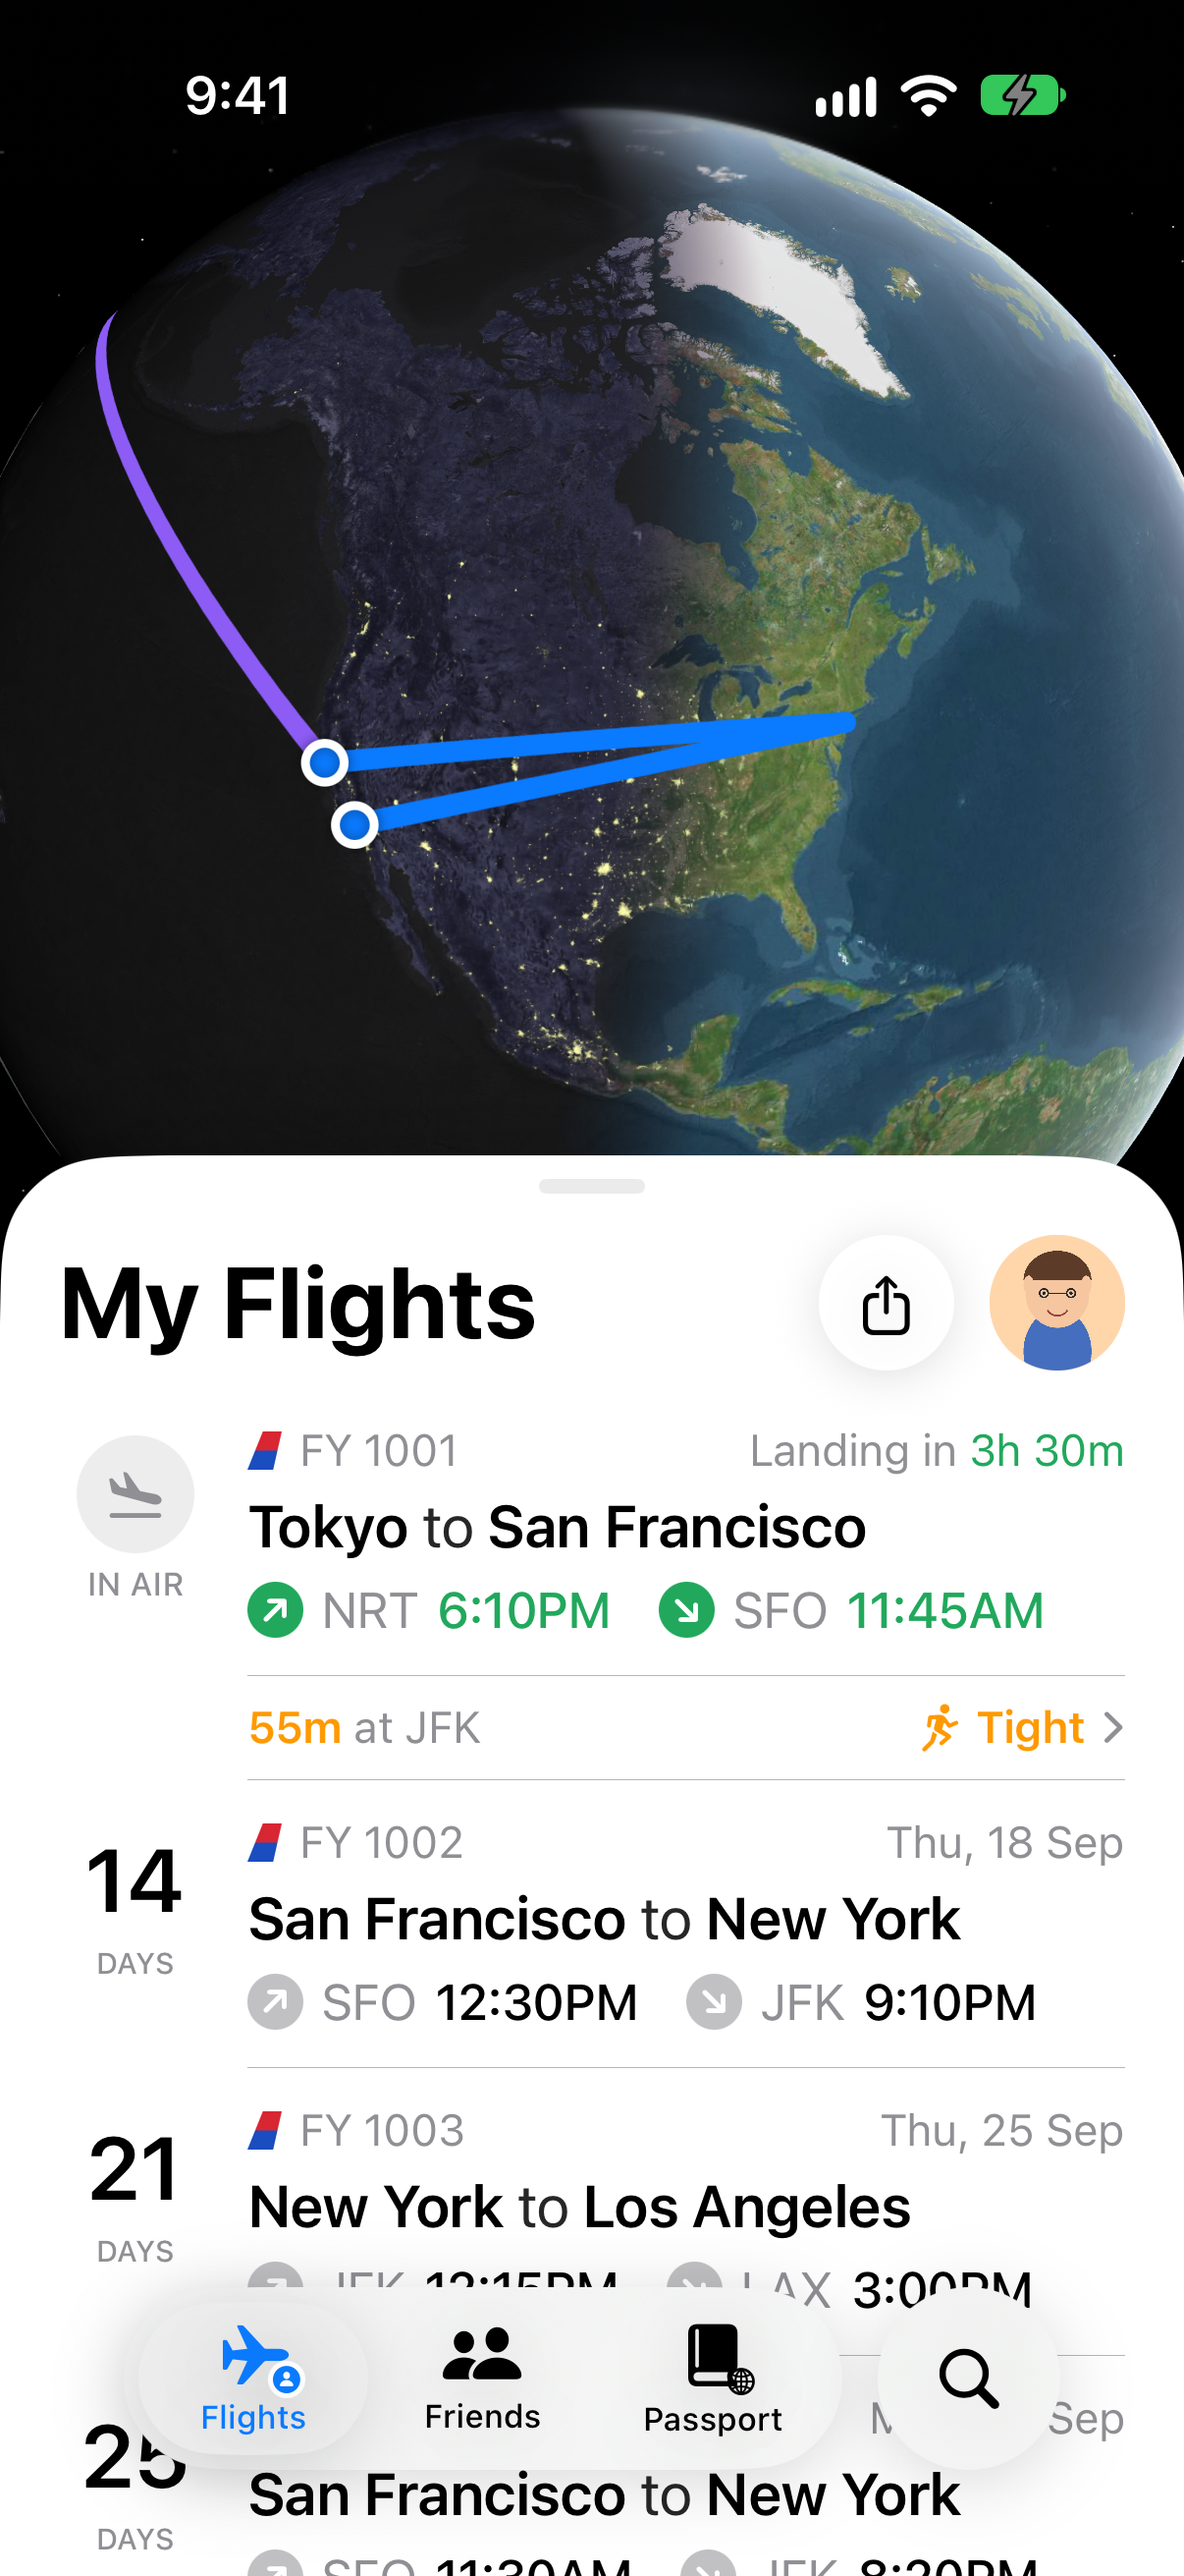
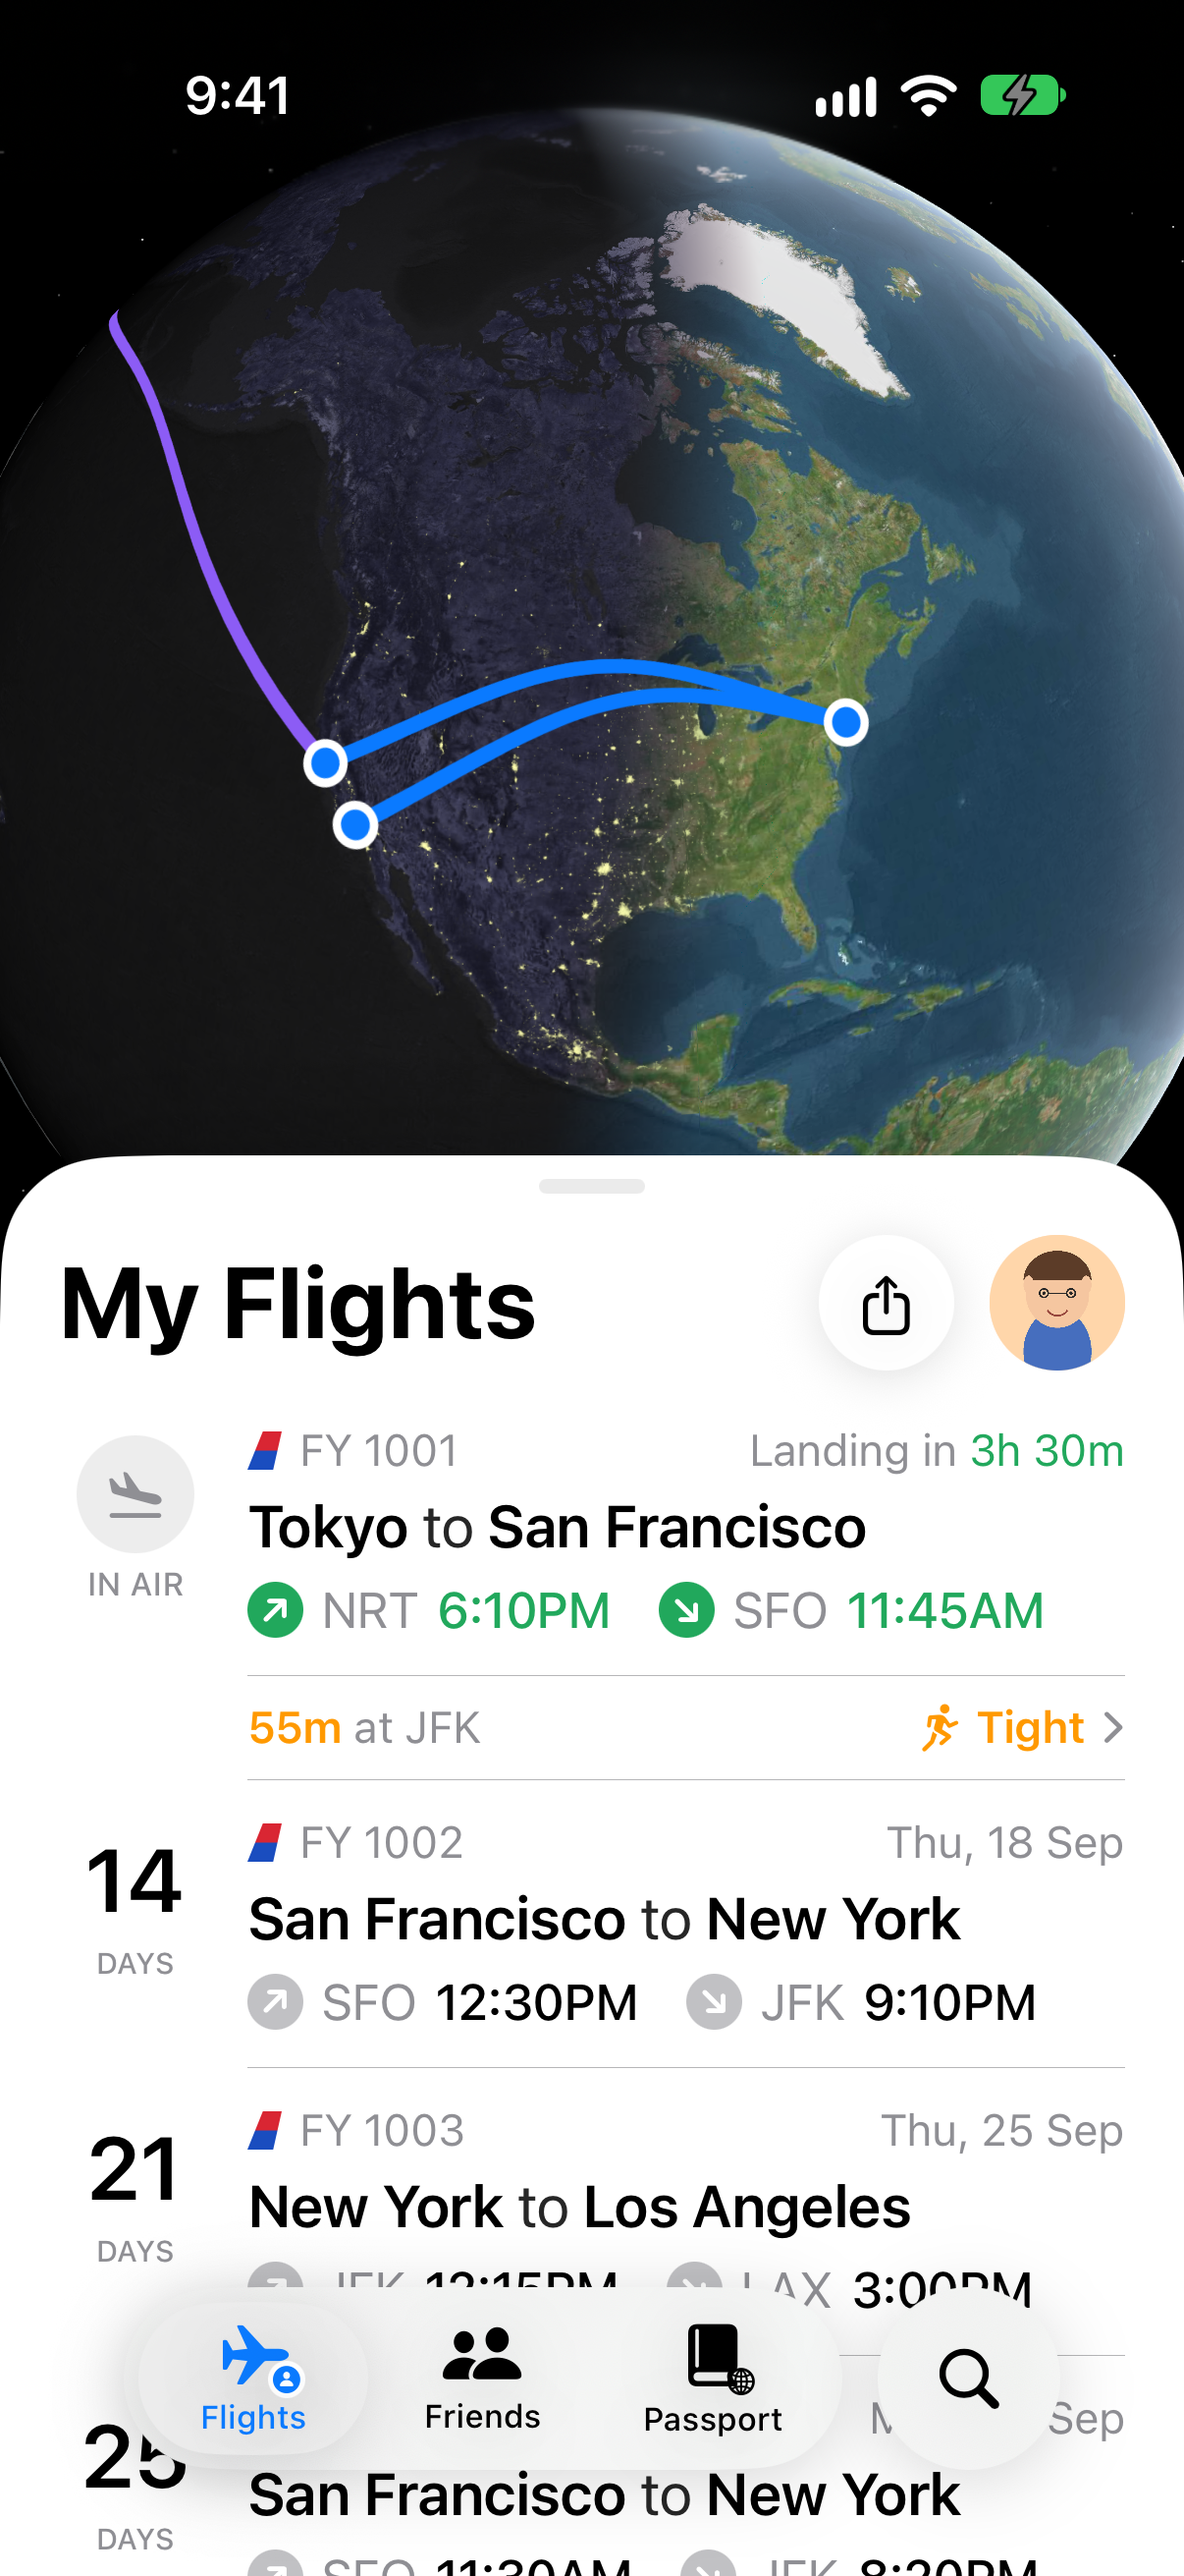
更新截圖

Changed region(s): [[0.2454, 0.2471, 0.7363, 0.3398], [0.0614, 0.1236, 0.2454, 0.278]]

diff --git a/Medium.md b/Medium.md
@@ -46,14 +46,17 @@ ZStack(alignment: .bottom) {
 
 ## 一顆真的地球
 
-原版上方的地球是衛星圖。我一開始以為要找一張地球的圖片，後來發現 MapKit 就做得到：用衛星圖模式，把攝影機拉到 2,600 萬公尺高，地圖就會變成一顆 3D 地球。
+原版上方的地球是衛星圖。我一開始以為要找一張地球的圖片，後來發現 MapKit 就做得到：用衛星圖模式，把攝影機拉到 2,200 萬公尺高、對準北美，地圖就會變成一顆 3D 地球。
 
 ```swift
 Map(initialPosition: .camera(MapCamera(
-        centerCoordinate: CLLocationCoordinate2D(latitude: 38, longitude: -175),
-        distance: 26_000_000, heading: 0, pitch: 0))) {
-    MapPolyline(coordinates: arc(from: from, to: to))
-        .stroke(Theme.route, lineWidth: 4)
+        centerCoordinate: CLLocationCoordinate2D(latitude: 40, longitude: -98),
+        distance: 22_000_000, heading: 0, pitch: 0)),
+    interactionModes: []) {
+    ForEach(flights) { flight in
+        MapPolyline(coordinates: arc(from: flight.from.coordinate, to: flight.to.coordinate))
+            .stroke(flight.isInAir ? Theme.past : Theme.route, lineWidth: 3)
+    }
 }
 .mapStyle(.imagery(elevation: .realistic))
 ```
@@ -75,8 +78,6 @@ GeometryReader { geo in
 原版的航線有兩種顏色：正在飛的那一班是紫色，還沒起飛的是藍色。我用 `flight.isInAir` 判斷，一行三元運算子就分好了。
 
 ## 一列航班的細節
-
-![](pic/detail.png)
 
 卡片裡的每一列都是同一個 `FlightRow`，用 property 傳入一班航班：
 
@@ -101,7 +102,7 @@ struct FlightRow: View {
 
 - **「Tokyo to San Francisco」**：城市名加粗，中間的 to 不加粗。用三個 `Text` 用 `+` 拼起來，每一段設定自己的粗細。
 - **時間的顏色**：飛行中的那一班，時間是綠色；還沒起飛的是黑色，前面的箭頭圓圈是灰色。
-- **轉機提醒**：「55m at NRT」的 55m 是橘色加粗，右邊有一個跑步的小人和「Tight」，提醒轉機時間很趕。
+- **轉機提醒**：「55m at JFK」的 55m 是橘色加粗，右邊有一個跑步的小人和「Tight」，提醒轉機時間很趕。
 
 ## 不使用航空公司的標誌
 
@@ -121,7 +122,7 @@ struct TailFin: Shape {
 }
 ```
 
-航班編號和時間也都是示範用的假資料。路線照原版截圖排：東京飛舊金山（飛行中）、舊金山飛紐約、紐約飛洛杉磯，再一班舊金山飛紐約，這樣兩張圖放在一起比較好對照。
+尾翼的紅藍塗裝是一張 Asset 圖片，再用 `.clipShape(TailFin())` 裁成這個形狀，順便完成「圖片裁成自訂形狀」的加分項。航班編號和時間也都是示範用的假資料。路線照原版截圖排：東京飛舊金山（飛行中）、舊金山飛紐約、紐約飛洛杉磯，再一班舊金山飛紐約，這樣兩張圖放在一起比較好對照。
 
 ## 深色模式
 
